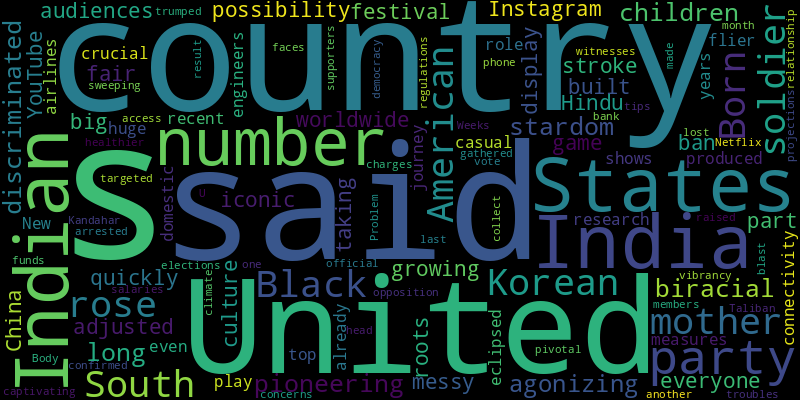
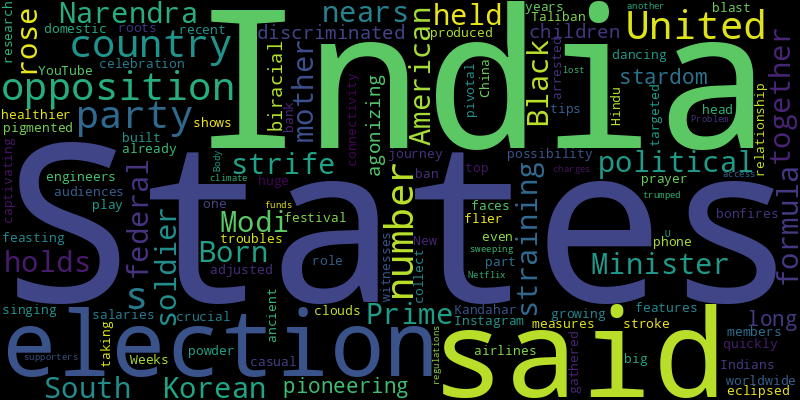
chore(bot): 🙏 auto commit

diff --git a/README.md b/README.md
@@ -2,41 +2,41 @@
 Auto RSS New York Times and Generate Word Cloud
 
 ## New York Times Global News
-* A resolution for the U.N. that American diplomats are circulating was notable for its strong language in seeking a cease-fire in Gaza and the release of hostages.
-* Secretary of State Antony J. Blinken met with Egypt’s president and foreign minister on his sixth wartime trip to the Middle East.
-* Weeks before pivotal elections, the head of one party was arrested on what his supporters said were trumped-up charges and another party said it lost access to its funds.
-* These votes can demonstrate control, serve as a warning and create the illusion of accountability.
-* The boy had been dropped off with relatives nearly three weeks ago and was airlifted back to his Florida home. He is part of a growing number of Americans trying to flee Haiti.
-* Ukraine said it had intercepted all 31 missiles fired at the capital. But debris injured at least 13 people and damaged several buildings.
-* The blast targeted a bank in Kandahar, where Taliban members had gathered to collect their salaries, witnesses said.
-* Leo Varadkar, the prime minister of the Republic of Ireland, resigned unexpectedly, prompting a political scramble. Here’s what to know about what happens next.
-* Memories of dictatorship are fading. Dissatisfaction is mounting. It was a ripe moment for the Chega party to appeal to voter frustrations.
-* One of Mexico’s most violent criminal groups, Jalisco New Generation, runs call centers that offer to buy retirees’ vacation properties. Then, it empties its victims’ bank accounts.
+* The Kremlin said that all four assailants were in custody. U.S. officials attributed the attack, one of the deadliest in Russia in decades, to ISIS-K, a branch of Islamic State that has been active in Iran and Afghanistan.
+* As an election nears, political strife between Prime Minister Narendra Modi and opposition-held states is straining the federal formula that holds India together.
+* First King Charles and now Catherine, Princess of Wales, are facing grave health concerns, stretching an already slimmed-down monarchy.
+* With hand tools and bare hands, families and rescuers continue to search broken buildings for missing friends and relatives.
+* The American draft resolution before the Security Council did not go far enough to end the Israel-Hamas war, Russia and China said, after the United States had vetoed three earlier resolutions.
+* The announcement that Corina Yoris would run came as a surprise to many who had feared that a fractured opposition would benefit President Nicolás Maduro.
+* Many expressed compassion for Catherine, Princess of Wales, a woman who has spent much of the past two decades with every aspect of her life scrutinized.
+* Born to a South Korean mother and a Black American soldier, she rose to a pioneering stardom in a country that has long discriminated against biracial children.
+* Civilians who gather dead Russian soldiers face many of the war’s perils along the front, where death is ubiquitous.
+* Power plants and a major hydroelectric dam were damaged in what Ukrainian officials said was one of the war’s largest assaults on energy infrastructure.
 
 ![Global](./global.png)
 ## New York Times United States News
-* Businesses and planning committees are eager for visitors, but some in remote Aroostook County are not sure how they feel about lying smack in the path of totality.
-* A city that pro basketball abandoned in the early 1970s, and whose college teams have only flirted with relevance for decades, has basketball roots that run deep.
-* The Tulsa County district attorney said a fight involving the nonbinary student in an Oklahoma high school bathroom was “mutual combat.” The death has been ruled a suicide.
-* Former deputies said they saw brutality as a way to rise in the ranks of a department that celebrated violence against people suspected of crimes.
-* The civil liberties group is defending itself in an unusual case that weighs what kind of language may be evidence of bias against Black people.
-* In trying to avoid even the smallest mistakes, Attorney General Merrick B. Garland might have made one big one: ending up in a race against the clock.
-* The authorities said they were executing a search warrant at the home of the executive, whom they accused of illegally selling firearms. His family said the action was unnecessary.
-* The two men fled from a hospital in Boise, Idaho, after an ambush in which three corrections officers were shot. The authorities were investigating whether they had killed two people while at large.
-* Carlee Russell, who received two suspended six-month sentences, won’t have to serve any time if she successfully completes 12 months of probation, performs 100 hours of community service and pays $17,000 in restitution.
-* Gov. Bill Lee on Thursday signed a first-in-the-nation bill to prevent the use of artificial intelligence to copy a performer’s “voice.”
+* The referendum, backed by progressives but criticized by the real estate industry, called for raising transfer taxes on properties that sell for more than $1 million.
+* The Texas governor, Greg Abbott, has spent $10 billion building his own border security network. In Eagle Pass, where it has been concentrated, far fewer migrants have been crossing this year.
+* Supporters of the little-known college on Friday celebrated its moment of fame after a shocking first-round win.
+* Music lovers stood in the cold this week for a first crack at tickets to Tanglewood, a beloved outdoor venue where the Boston Symphony Orchestra plays all summer long.
+* The Republican Senate candidate in Arizona, who has been an election denier and Trump supporter, is seeking to appeal to establishment Republicans.
+* The Affordable Connectivity Program, a $14.2 billion federal effort to make internet service more affordable, is expected to run out of funding this spring.
+* Bipartisan spending legislation approved by Congress represented a major defeat for ultraconservatives, who immediately turned on Speaker Mike Johnson.
+* The Islamic State affiliate has been a major threat to the Taliban’s ability to govern Afghanistan.
+* Vince Fong and Mike Boudreaux, who advanced to a special election in May, will also face each other in November to fill the former House speaker’s seat for a full, two-year term.
+* A 2013 ruling triggered a slew of laws that attached restrictions to voting.
 
 ![US](./usnews.png)
 ## New York Times Asia News
+* As an election nears, political strife between Prime Minister Narendra Modi and opposition-held states is straining the federal formula that holds India together.
 * Born to a South Korean mother and a Black American soldier, she rose to a pioneering stardom in a country that has long discriminated against biracial children.
 * The United States is agonizing over the possibility of a ban, but India did it at a stroke. Indians adjusted quickly, and Instagram and YouTube built big audiences.
-* The festival has Hindu roots, but everyone is fair game to get messy, and growing numbers worldwide are taking part in the iconic display of Indian culture.
+* The ancient festival has Hindu roots, but growing numbers worldwide are taking part in the celebration, which features bonfires, singing, dancing, prayer, feasting and clouds of pigmented powder.
 * China has produced a huge number of top A.I. engineers in recent years. New research shows that, by some measures, it has already eclipsed the United States.
 * The country's domestic airlines play a crucial role in connectivity. But for the casual flier, even the journey is captivating.
 * Also, India’s opposition faces troubles and tips for a healthier relationship with your phone.
 * The blast targeted a bank in Kandahar, where Taliban members had gathered to collect their salaries, witnesses said.
 * Weeks before pivotal elections, the head of one party was arrested on what his supporters said were trumped-up charges and another party said it lost access to its funds.
 * Also, sweeping U.S. climate regulations and the “3 Body Problem” on Netflix.
-* The official result confirmed projections made after last month’s vote, which raised concerns about the vibrancy of the country’s democracy.
 
 ![Asian](./asian.png)
